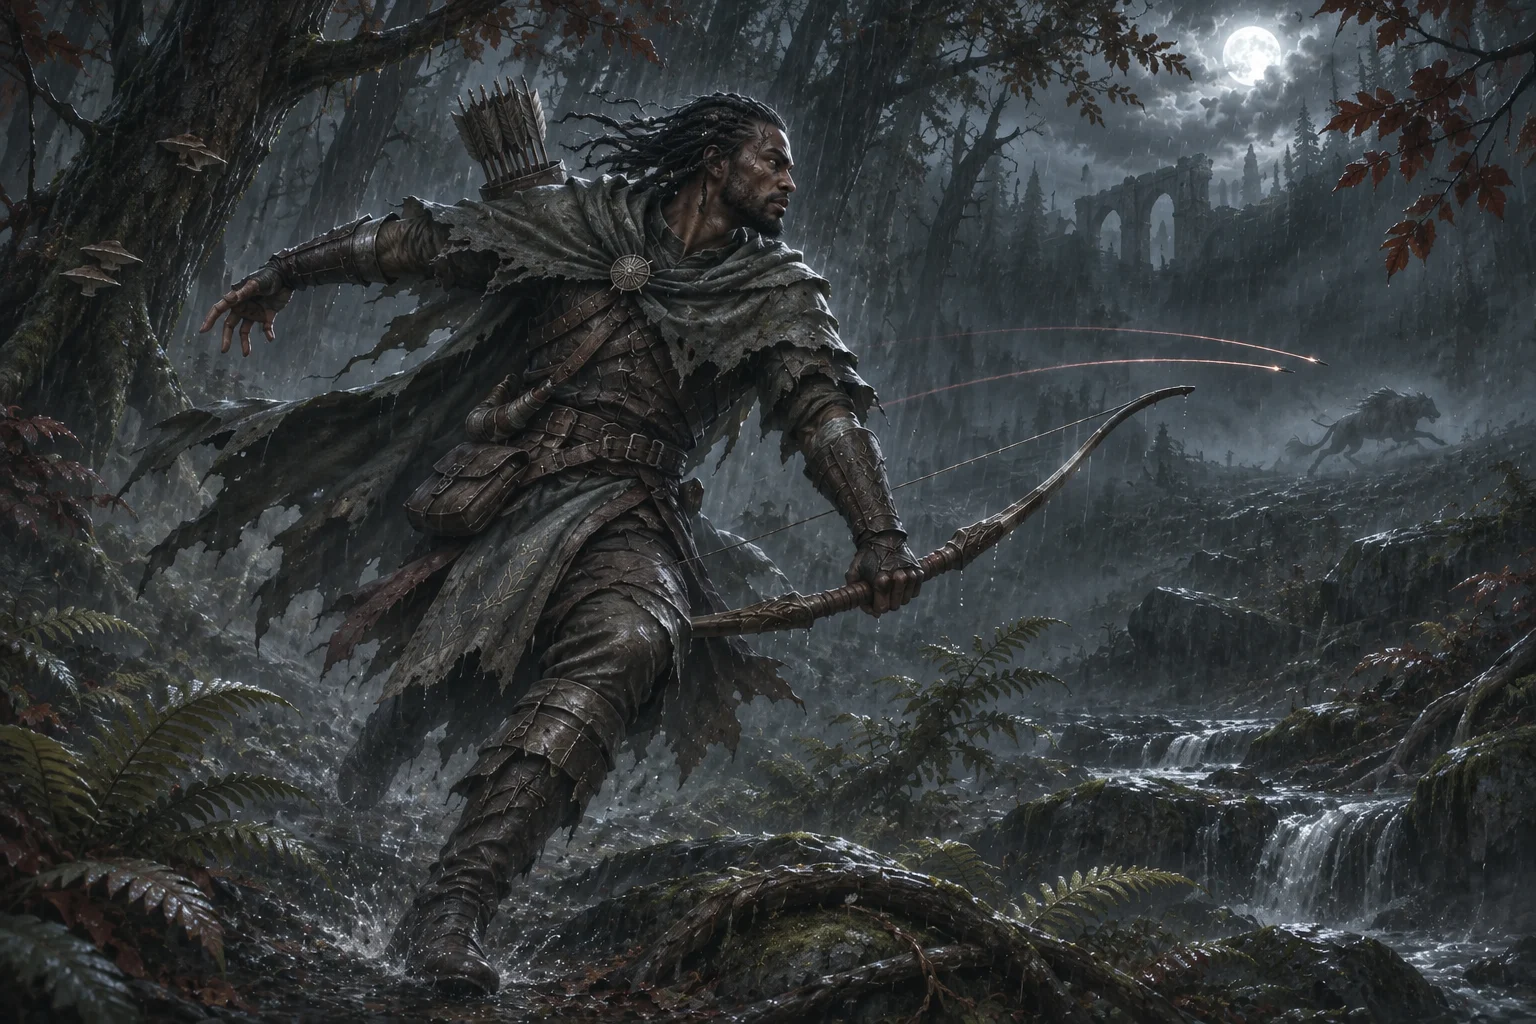
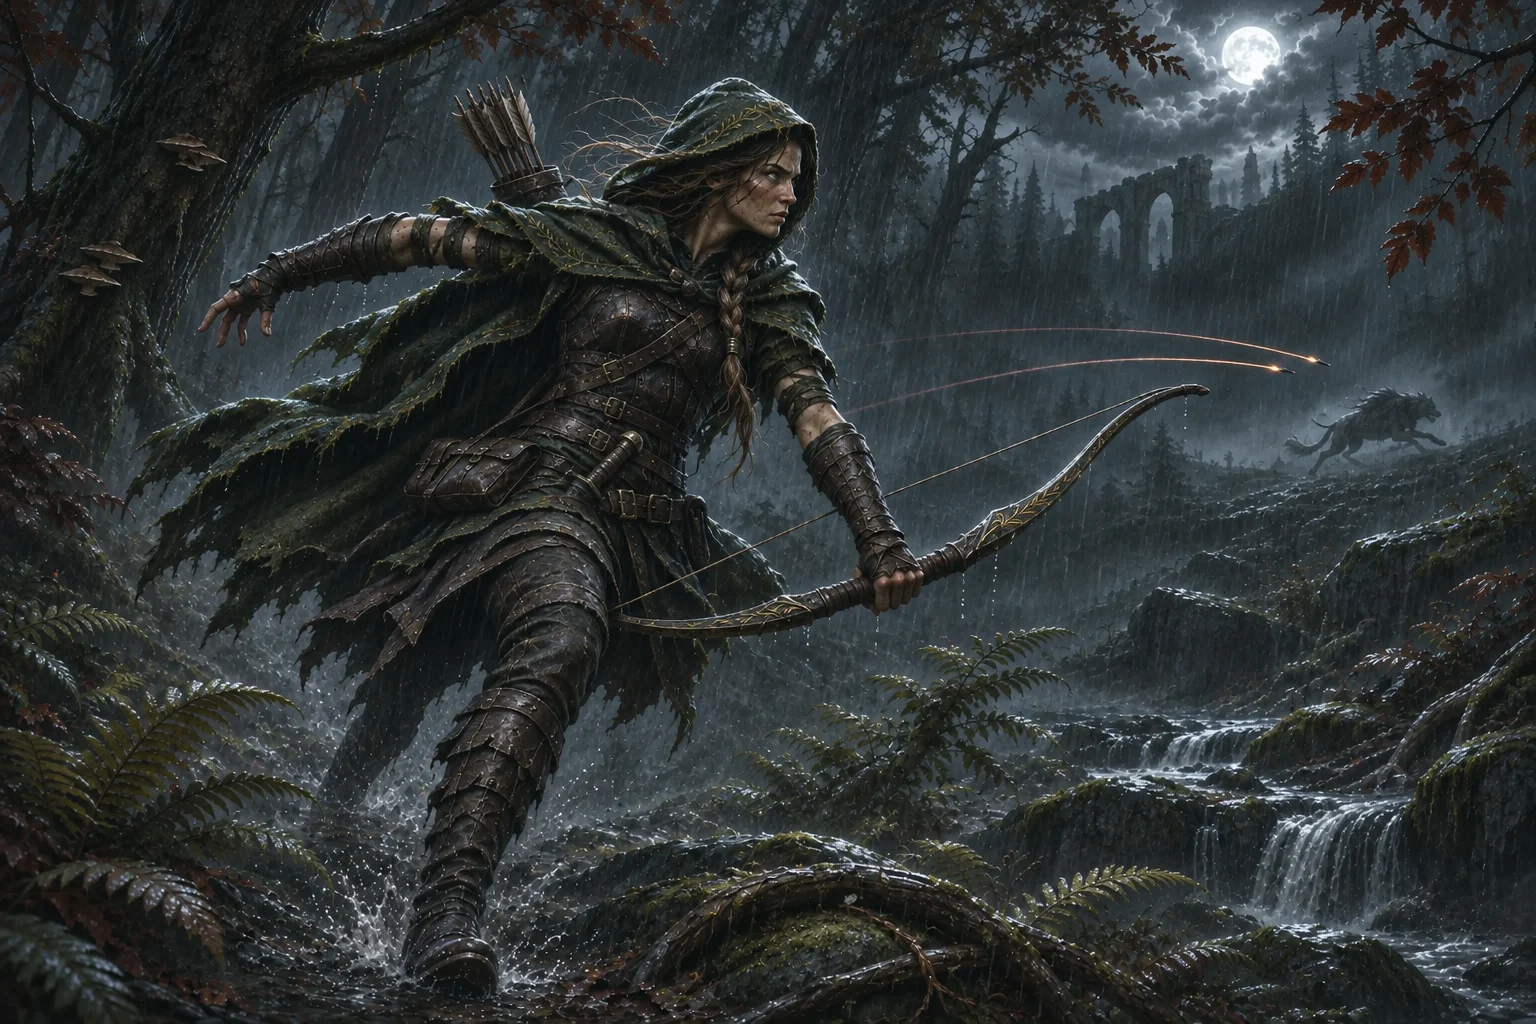
Keep Vocation previews tied to their base-class characters

diff --git a/site/assets/vocation-gallery.js b/site/assets/vocation-gallery.js
@@ -1,6 +1,6 @@
-import { VOCATION_SCENES, visibleVocations } from './vocation-scenes.js?v=hw11';
+import { VOCATION_SCENES, visibleVocations } from './vocation-scenes.js?v=hw12';
 
-export function mountVocationGallery(root, { entries=VOCATION_SCENES, unlockedVocationIds=null }={}) {
+export function mountVocationGallery(root, { entries=VOCATION_SCENES, unlockedVocationIds=null, classId=null, className='This class' }={}) {
   const list=root.querySelector('[data-vocation-tabs]');
   const panel=root.querySelector('[data-vocation-panel]');
   const art=root.querySelector('[data-vocation-art]');
@@ -9,7 +9,7 @@ export function mountVocationGallery(root, { entries=VOCATION_SCENES, unlockedVo
   const status=root.querySelector('[data-vocation-status]');
   const reduced=matchMedia('(prefers-reduced-motion: reduce)');
   const loaded=new Map();
-  let revealSecrets=false, entriesShown=[], buttons=[], shown=null, intent=0;
+  let currentClass, revealSecrets=false, entriesShown=[], buttons=[], shown=null, intent=0;
   function mark(id) {
     buttons.forEach(button=>{const selected=button.dataset.vocation===id;button.setAttribute('aria-selected',String(selected));button.tabIndex=selected?0:-1;});
   }
@@ -26,11 +26,12 @@ export function mountVocationGallery(root, { entries=VOCATION_SCENES, unlockedVo
     root.querySelector('[data-vocation-style]').textContent=scene.style;
     root.querySelector('[data-vocation-title]').textContent=scene.title;
     root.querySelector('[data-vocation-description]').textContent=scene.description;
-    panel.setAttribute('aria-labelledby','vocation-tab-'+scene.id);
-    shown=scene.id;mark(shown);
+    panel.setAttribute('role',buttons.length?'tabpanel':'region');
+    panel.setAttribute('aria-labelledby',buttons.length?'vocation-tab-'+scene.id:'vocation-name');
+    panel.hidden=false;shown=scene.id;mark(shown);
   }
   async function select(scene) {
-    const ticket=++intent;mark(scene.id);status.textContent='';
+    const ticket=++intent;mark(scene.id);status.replaceChildren();
     if(shown===scene.id&&img.getAttribute('src')===scene.src){panel.removeAttribute('aria-busy');art.classList.remove('is-changing');return;}
     panel.setAttribute('aria-busy','true');
     try {
@@ -40,18 +41,20 @@ export function mountVocationGallery(root, { entries=VOCATION_SCENES, unlockedVo
       if(ticket!==intent||!root.open)return;
       present(scene,scene.src);
       await img.decode().catch(()=>{});
-      if(ticket!==intent)return;
     } catch (_) {
       if(ticket!==intent||!root.open)return;
       if(!shown)present(scene,'assets/art/hand.webp');else mark(shown);
-      status.textContent='This painting could not load. Select a calling to try again.';
+      const retry=document.createElement('button');retry.type='button';retry.className='vocation-retry';retry.textContent='Try loading the painting again';
+      retry.addEventListener('click',()=>select(scene));
+      status.replaceChildren(document.createTextNode('This painting could not load. '),retry);
     } finally {
       if(ticket===intent){panel.removeAttribute('aria-busy');art.classList.remove('is-changing');}
     }
   }
   function buildTabs() {
-    entriesShown=visibleVocations(entries,{unlockedVocationIds,revealSecrets});
-    buttons=entriesShown.map((scene,index)=>{
+    entriesShown=visibleVocations(entries,{classId:currentClass,unlockedVocationIds,revealSecrets});
+    // One calling needs no redundant selector. Multiple paths retain real tabs.
+    buttons=entriesShown.length<2?[]:entriesShown.map((scene,index)=>{
       const button=document.createElement('button');button.type='button';button.id='vocation-tab-'+scene.id;
       button.dataset.vocation=scene.id;button.setAttribute('role','tab');button.setAttribute('aria-controls',panel.id);
       button.textContent=scene.name;button.setAttribute('aria-selected','false');button.tabIndex=-1;
@@ -63,18 +66,40 @@ export function mountVocationGallery(root, { entries=VOCATION_SCENES, unlockedVo
         if(next===undefined)return;event.preventDefault();buttons[next].focus();select(entriesShown[next]);
       });return button;
     });
-    list.replaceChildren(...buttons);mark(shown||entriesShown[0]?.id);
-    secret.hidden=unlockedVocationIds!==null||revealSecrets||!entries.some(entry=>entry.secret);
+    list.replaceChildren(...buttons);list.hidden=!buttons.length;mark(shown||entriesShown[0]?.id);
+    if(shown){panel.setAttribute('role',buttons.length?'tabpanel':'region');panel.setAttribute('aria-labelledby',buttons.length?'vocation-tab-'+shown:'vocation-name');}
+    secret.hidden=unlockedVocationIds!==null||revealSecrets||!entries.some(entry=>entry.classIds.includes(currentClass)&&entry.secret);
+  }
+  function setClass(id,name='This class') {
+    root.querySelector('[data-vocation-class-label]').textContent='The '+name+'’s calling';
+    if(currentClass===id)return;
+    currentClass=id;root.dataset.vocationClass=id||'';
+    // Invalidate pending loads and hide the previous person before a new fetch.
+    ++intent;shown=null;revealSecrets=false;panel.hidden=true;
+    panel.removeAttribute('aria-busy');art.classList.remove('is-changing');
+    img.removeAttribute('src');img.alt='';
+    for(const key of ['name','style','title','description'])root.querySelector('[data-vocation-'+key+']').textContent='';
+    status.replaceChildren();buildTabs();
+    if(!entriesShown.length)status.textContent=secret.hidden?'This class’s Vocation preview is still being prepared.':'A calling waits to be discovered.';
+    else if(root.open)select(entriesShown[0]);
   }
   secret.querySelector('button').addEventListener('click',()=>{
     revealSecrets=true;buildTabs();const scene=entriesShown.find(entry=>entry.secret);
-    if(scene){buttons.find(button=>button.dataset.vocation===scene.id).focus();select(scene);}
+    if(scene){
+      const tab=buttons.find(button=>button.dataset.vocation===scene.id), owner=currentClass;
+      tab?.focus();
+      select(scene).then(()=>{
+        if(!tab&&root.open&&currentClass===owner&&shown===scene.id){
+          const heading=root.querySelector('[data-vocation-name]');heading.tabIndex=-1;heading.focus({preventScroll:true});
+        }
+      });
+    }
   });
   root.addEventListener('toggle',()=>{
     if(!root.open){++intent;mark(shown||entriesShown[0]?.id);panel.removeAttribute('aria-busy');art.classList.remove('is-changing');}
     else if(!shown&&entriesShown.length)select(entriesShown[0]);
   });
-  buildTabs();root.dataset.vocationReady='true';
-  if(root.open&&entriesShown.length)select(entriesShown[0]);
-  if(!entriesShown.length){panel.hidden=true;status.textContent='No callings are available to preview yet.';}
+  // A missing class is deliberately an empty preview, never the full catalogue.
+  setClass(classId,className);root.dataset.vocationReady='true';
+  return {setClass};
 }

diff --git a/site/index.html b/site/index.html
@@ -17,7 +17,7 @@
   <link rel="preconnect" href="https://fonts.gstatic.com" crossorigin>
   <link href="https://fonts.googleapis.com/css2?family=Cinzel:wght@500;600;700&family=Inter:wght@400;500;600;700&family=Space+Grotesk:wght@400;500;600;700&display=swap" rel="stylesheet">
   <link rel="stylesheet" href="assets/home.css?v=hw11">
-  <link rel="stylesheet" href="assets/vocation-gallery.css?v=hw11">
+  <link rel="stylesheet" href="assets/vocation-gallery.css?v=hw12">
   <script>document.documentElement.classList.add('js');</script>
   <script src="assets/cinema.js?v=cine12"></script>
 </head>
@@ -104,11 +104,11 @@
         <details class="vocation-gallery reveal" data-vocation-gallery>
           <summary><span class="vocation-invitation"><strong>A deeper calling</strong><small>Explore Vocations, the specializations that change how you fight.</small></span><b aria-hidden="true">+</b></summary>
           <div class="vocation-body">
-            <div class="vocation-intro"><h3>A class is a beginning.<br>A Vocation changes the way.</h3><p>Earn a Vocation through its quest chain, then shape its dedicated passive tree. Callings unlocked by one character become possibilities for future lives.</p></div>
+            <div class="vocation-intro"><p class="kicker" data-vocation-class-label></p><h3>A class is a beginning.<br>A Vocation changes the way.</h3><p>Earn a Vocation through its quest chain, then shape its dedicated passive tree. Callings unlocked by one character become possibilities for future lives.</p></div>
             <div class="vocation-tabs" role="tablist" aria-label="Vocation playstyles" data-vocation-tabs></div>
-            <div class="vocation-panel" id="vocation-panel" role="tabpanel" data-vocation-panel>
+            <div class="vocation-panel" id="vocation-panel" role="region" aria-labelledby="vocation-name" data-vocation-panel hidden>
               <div class="vocation-art memory-art" data-memory-art data-living-art="light" data-vocation-art><img width="1536" height="1024" alt=""></div>
-              <div class="vocation-copy"><p class="kicker" data-vocation-style></p><h4 data-vocation-name></h4><h5 data-vocation-title></h5><p data-vocation-description></p></div>
+              <div class="vocation-copy"><p class="kicker" data-vocation-style></p><h4 id="vocation-name" data-vocation-name></h4><h5 data-vocation-title></h5><p data-vocation-description></p></div>
             </div>
             <div class="vocation-secret" data-vocation-secret hidden><button type="button">Reveal an undiscovered calling <span aria-hidden="true">↗</span></button><p>Includes a path you may prefer to find in the world.</p></div>
             <p role="status" data-vocation-status></p>
@@ -145,7 +145,7 @@
 <script src="assets/observer-art.js?v=hw10"></script>
 <script src="assets/home-atmosphere.js?v=hw10"></script>
 <script src="assets/memory-art.js?v=hw11"></script>
-<script type="module" src="assets/home.js?v=hw11"></script>
+<script type="module" src="assets/home.js?v=hw12"></script>
 <script src="assets/showcase.js?v=hw3"></script>
 <script src="assets/guide-copy.js"></script>
 <script src="assets/decks.js"></script>

diff --git a/site/assets/vocation-scenes.js b/site/assets/vocation-scenes.js
@@ -7,11 +7,19 @@ export const VOCATION_SCENES = Object.freeze([
   { id:'spellblade', name:'Spellblade', style:'Steel / Sorcery / Rhythm', title:'Let steel answer sorcery.', description:'Alternate attacks and spells to build speed, then sustain a varied sequence for stronger offense and a more resilient guard.', alt:'A Spellblade completes a sword stroke as violet-white spellwork traces the same arc' },
   { id:'hierophant', name:'Hierophant', style:'Guard / Recovery / Reprisal', title:'Hold fast. Let faith answer.', description:'Turn blocks into retaliatory bursts, strengthen healing, and share in the rites that sustain your followers.', alt:'A Hierophant shelters weary allies behind a shield as a pale-gold ring travels across cathedral steps' },
   { id:'greenwarden', name:'Greenwarden', secret:true, style:'Grow / Harvest / Relocate', title:'Carry a forest into the fight.', description:'Grow a living grove, harvest it for rooting bursts or recovery, or move the saplings forward to shelter the next engagement.', alt:'A woodland keeper advances with living saplings lifting their roots from a ruined causeway' }
-].map(scene => Object.freeze({ ...scene, src:'assets/art/vocations/'+scene.id+'.webp', unlockKey:'vocation_unlocked_'+scene.id })));
+].map(scene => Object.freeze({
+  ...scene,
+  // Eligibility follows VocationDef.classId/offeredClasses, never name matching.
+  classIds:Object.freeze({warbringer:['warrior'],gravebinder:['necromancer','summoner'],wildstalker:['ranger'],spellblade:['magician'],hierophant:['cleric'],greenwarden:['ranger']}[scene.id]),
+  src:'assets/art/vocations/'+scene.id+'.webp'+(scene.id==='gravebinder'?'':'?v=2'),
+  artworkByClass:scene.id==='gravebinder'?Object.freeze({summoner:Object.freeze({src:'assets/art/vocations/gravebinder-summoner.webp',alt:'The Summoner, now a Gravebinder, walks beside an assembled skeletal guardian as pale souls gather in burial mist'})}):undefined,
+  unlockKey:'vocation_unlocked_'+scene.id
+})));
 
 // A future account adapter can supply verified unlocked IDs. This presentation
 // filter is not authorization: a server must own any genuinely restricted data.
-export function visibleVocations(entries, { unlockedVocationIds=null, revealSecrets=false }={}) {
+export function visibleVocations(entries, { classId=null, unlockedVocationIds=null, revealSecrets=false }={}) {
   const unlocked=unlockedVocationIds===null?null:new Set(unlockedVocationIds);
-  return entries.filter(entry => unlocked ? unlocked.has(entry.id) : !entry.secret || revealSecrets);
+  return entries.filter(entry => entry.classIds.includes(classId) && (unlocked ? unlocked.has(entry.id) : !entry.secret || revealSecrets))
+    .map(entry => ({...entry,...entry.artworkByClass?.[classId]}));
 }

diff --git a/site/assets/home.js b/site/assets/home.js
@@ -4,15 +4,17 @@ import { getClassArtwork } from './class-art.js?v=hw11';
 import { mountWorldStories } from './world-stories.js?v=hw9';
 mountWorldStories(document.querySelector('[data-world-feature]'));
 const vocationGallery=document.querySelector('[data-vocation-gallery]');
-let vocationLoading=false;
+let vocationLoading=false, vocationController=null;
+let selectedClass=document.querySelector('[data-class][aria-selected="true"]');
+let vocationClass={id:selectedClass?.dataset.class,name:selectedClass?.querySelector('.class-name')?.textContent};
 vocationGallery?.addEventListener('toggle',async()=>{
   if(!vocationGallery.open||vocationLoading||vocationGallery.dataset.vocationReady)return;
   vocationLoading=true;
   const status=vocationGallery.querySelector('[data-vocation-status]');
   status.textContent='Opening the callings…';
   try {
-    const { mountVocationGallery }=await import('./vocation-gallery.js?v=hw11');
-    status.textContent='';mountVocationGallery(vocationGallery);
+    const { mountVocationGallery }=await import('./vocation-gallery.js?v=hw12');
+    status.textContent='';vocationController=mountVocationGallery(vocationGallery,{classId:vocationClass.id,className:vocationClass.name});
   } catch (_) { status.textContent='The preview could not load. Close and reopen to try again.'; }
   finally { vocationLoading=false; }
 });
@@ -42,6 +44,8 @@ vocationGallery?.addEventListener('toggle',async()=>{
       document.getElementById(other.getAttribute('aria-controls')).hidden = !selected;
     });
     setArtwork(tab.dataset.class);
+    vocationClass={id:tab.dataset.class,name:tab.querySelector('.class-name').textContent};
+    vocationController?.setClass(vocationClass.id,vocationClass.name);
     if (focus) tab.focus();
   }
   tabs.forEach(function (tab, i) {

diff --git a/site/assets/vocation-gallery.css b/site/assets/vocation-gallery.css
@@ -1,4 +1,7 @@
 .vocation-gallery{margin-top:38px;border-block:1px solid var(--line-2)}
+.vocation-gallery [hidden]{display:none!important}
+.vocation-intro>.kicker{color:var(--gold);font-size:10px;margin-bottom:12px}
+.vocation-retry{border:0;background:transparent;color:var(--gold);padding:10px 0;min-height:44px;font:inherit;cursor:pointer}
 .vocation-gallery>summary{display:flex;align-items:center;justify-content:space-between;gap:24px;padding:26px 0;cursor:pointer;list-style:none}
 .vocation-gallery>summary::-webkit-details-marker{display:none}
 .vocation-invitation{display:grid;gap:5px}.vocation-invitation strong{font-family:var(--font-display);font-size:21px;font-weight:500;color:var(--gold)}

diff --git a/docs/design/site-presentation.md b/docs/design/site-presentation.md
@@ -119,16 +119,32 @@ Scene captions remain, but no image carries a "Hollow Wake / Key art" label.
 "A deeper calling" sits below the class showcase as a closed native disclosure.
 The gallery module and catalogue load only after opening it; only the chosen
 painting loads. `vocation-scenes.js` starts with Warbringer, Gravebinder,
-Wildstalker, Spellblade, Hierophant and Greenwarden. The first five are public
-previews; Greenwarden's name, copy and image stay absent until a separate
+Wildstalker, Spellblade, Hierophant and Greenwarden. Only the selected class's
+paths appear; `home.js` passes both initial selection and every subsequent
+click, keyboard choice or new deal to the gallery's `setClass(id,name)`.
+A single path has no redundant tab strip; multiple paths use accessible tabs.
+Classes without authored previews get a neutral preparation message, never an
+unrelated Vocation. Greenwarden's name, copy and image stay absent until a separate
 "Reveal an undiscovered calling" action. This preserves intentional exploration
 without publishing quest locations. The gallery is a curated selection, not
-the complete Vocation roster. New entries own their image, alt text, copy,
-secret flag and stable game ID. Original generation prompts and provenance
-live beside the six compressed paintings in `assets/art/vocations/`.
+the complete Vocation roster. Eligibility uses exact `classIds`, following the
+game's `classId` and `offeredClasses`; the Spellblade Vocation belongs to the
+Magician, not the separate base class also named Spellblade. Ranger already
+has Wildstalker plus secret Greenwarden. Class filtering precedes both spoiler
+and account filtering, so neither can expose another class's path.
+
+Artwork depicts the same person as the selected base class. The approved
+Necromancer/Gravebinder painting is retained; `artworkByClass` gives Summoner
+its own Gravebinder variant. Other paintings preserve their base character's
+skin tone, face, age and hair. New entries own their class eligibility, image,
+alt text, copy, secret flag and stable game ID. Generation prompts and identity
+references live beside the seven paintings in `assets/art/vocations/`.
 
 `vocation-gallery.js` owns selection, loading races, retries, accessible tabs
-and a single reusable canvas. It accepts `unlockedVocationIds` for a future
+and a single reusable canvas. Changing classes immediately clears the previous
+painting, invalidates pending loads and resets the class's spoiler reveal.
+Closed galleries do not fetch replacement paintings. A failed first painting
+uses the neutral spectral hand with a retry button. It accepts `unlockedVocationIds` for a future
 account adapter; explicit empty access exposes nothing. Catalogue unlock keys
 match `vocation_unlocked_<id>` in the game. This is a presentation seam, not
 authentication or access control. A future Vault integration must authorize

diff --git a/site/assets/art/vocations/README.md b/site/assets/art/vocations/README.md
@@ -11,6 +11,28 @@ PNGs remain in the owner's generated-image library. The website copies are
 1536 x 1024 WebP conversions at quality 0.86, with no cropping or retouching.
 
 `site/assets/vocation-scenes.js` maps stable game IDs to these images and copy.
-Only the selected painting loads, after the visitor opens the gallery. The
-Greenwarden image is not requested until the visitor reveals that secret
-calling. New entries can be added without changing the gallery layout.
+Only paintings belonging to the selected base class can appear, and only the
+selected painting loads after the visitor opens the gallery. The Greenwarden
+image is not requested until the Ranger's secret calling is explicitly revealed.
+New paths for a class can be added without changing the gallery layout.
+
+## Character continuity pass — 2026-11-10
+
+The owner requested that a Vocation retain the base class's character identity.
+`lineage-prompts.json` records six edits made with built-in image generation,
+using each base-class painting as the identity reference and the first Vocation
+painting as the composition reference. Skin tone, facial structure, age, gender
+and hair remain recognizable; attire and abilities advance with the Vocation.
+
+- Warrior → Warbringer (`warbringer.webp`)
+- Ranger → Wildstalker and Greenwarden (`wildstalker.webp`, `greenwarden.webp`)
+- Magician → Spellblade (`spellblade.webp`)
+- Cleric → Hierophant (`hierophant.webp`)
+- Summoner → a separate Gravebinder variant (`gravebinder-summoner.webp`)
+
+The owner's preferred `gravebinder.webp` remains unchanged for Necromancer.
+The game also explicitly offers Gravebinder to Summoner, so its per-class
+variant preserves that character instead of borrowing Necromancer's likeness.
+The base class named Spellblade is distinct from the Magician's Vocation.
+These seven web assets use the same 1536 × 1024, quality-0.86 WebP conversion.
+Full-size originals remain in the owner's generated-image library.
